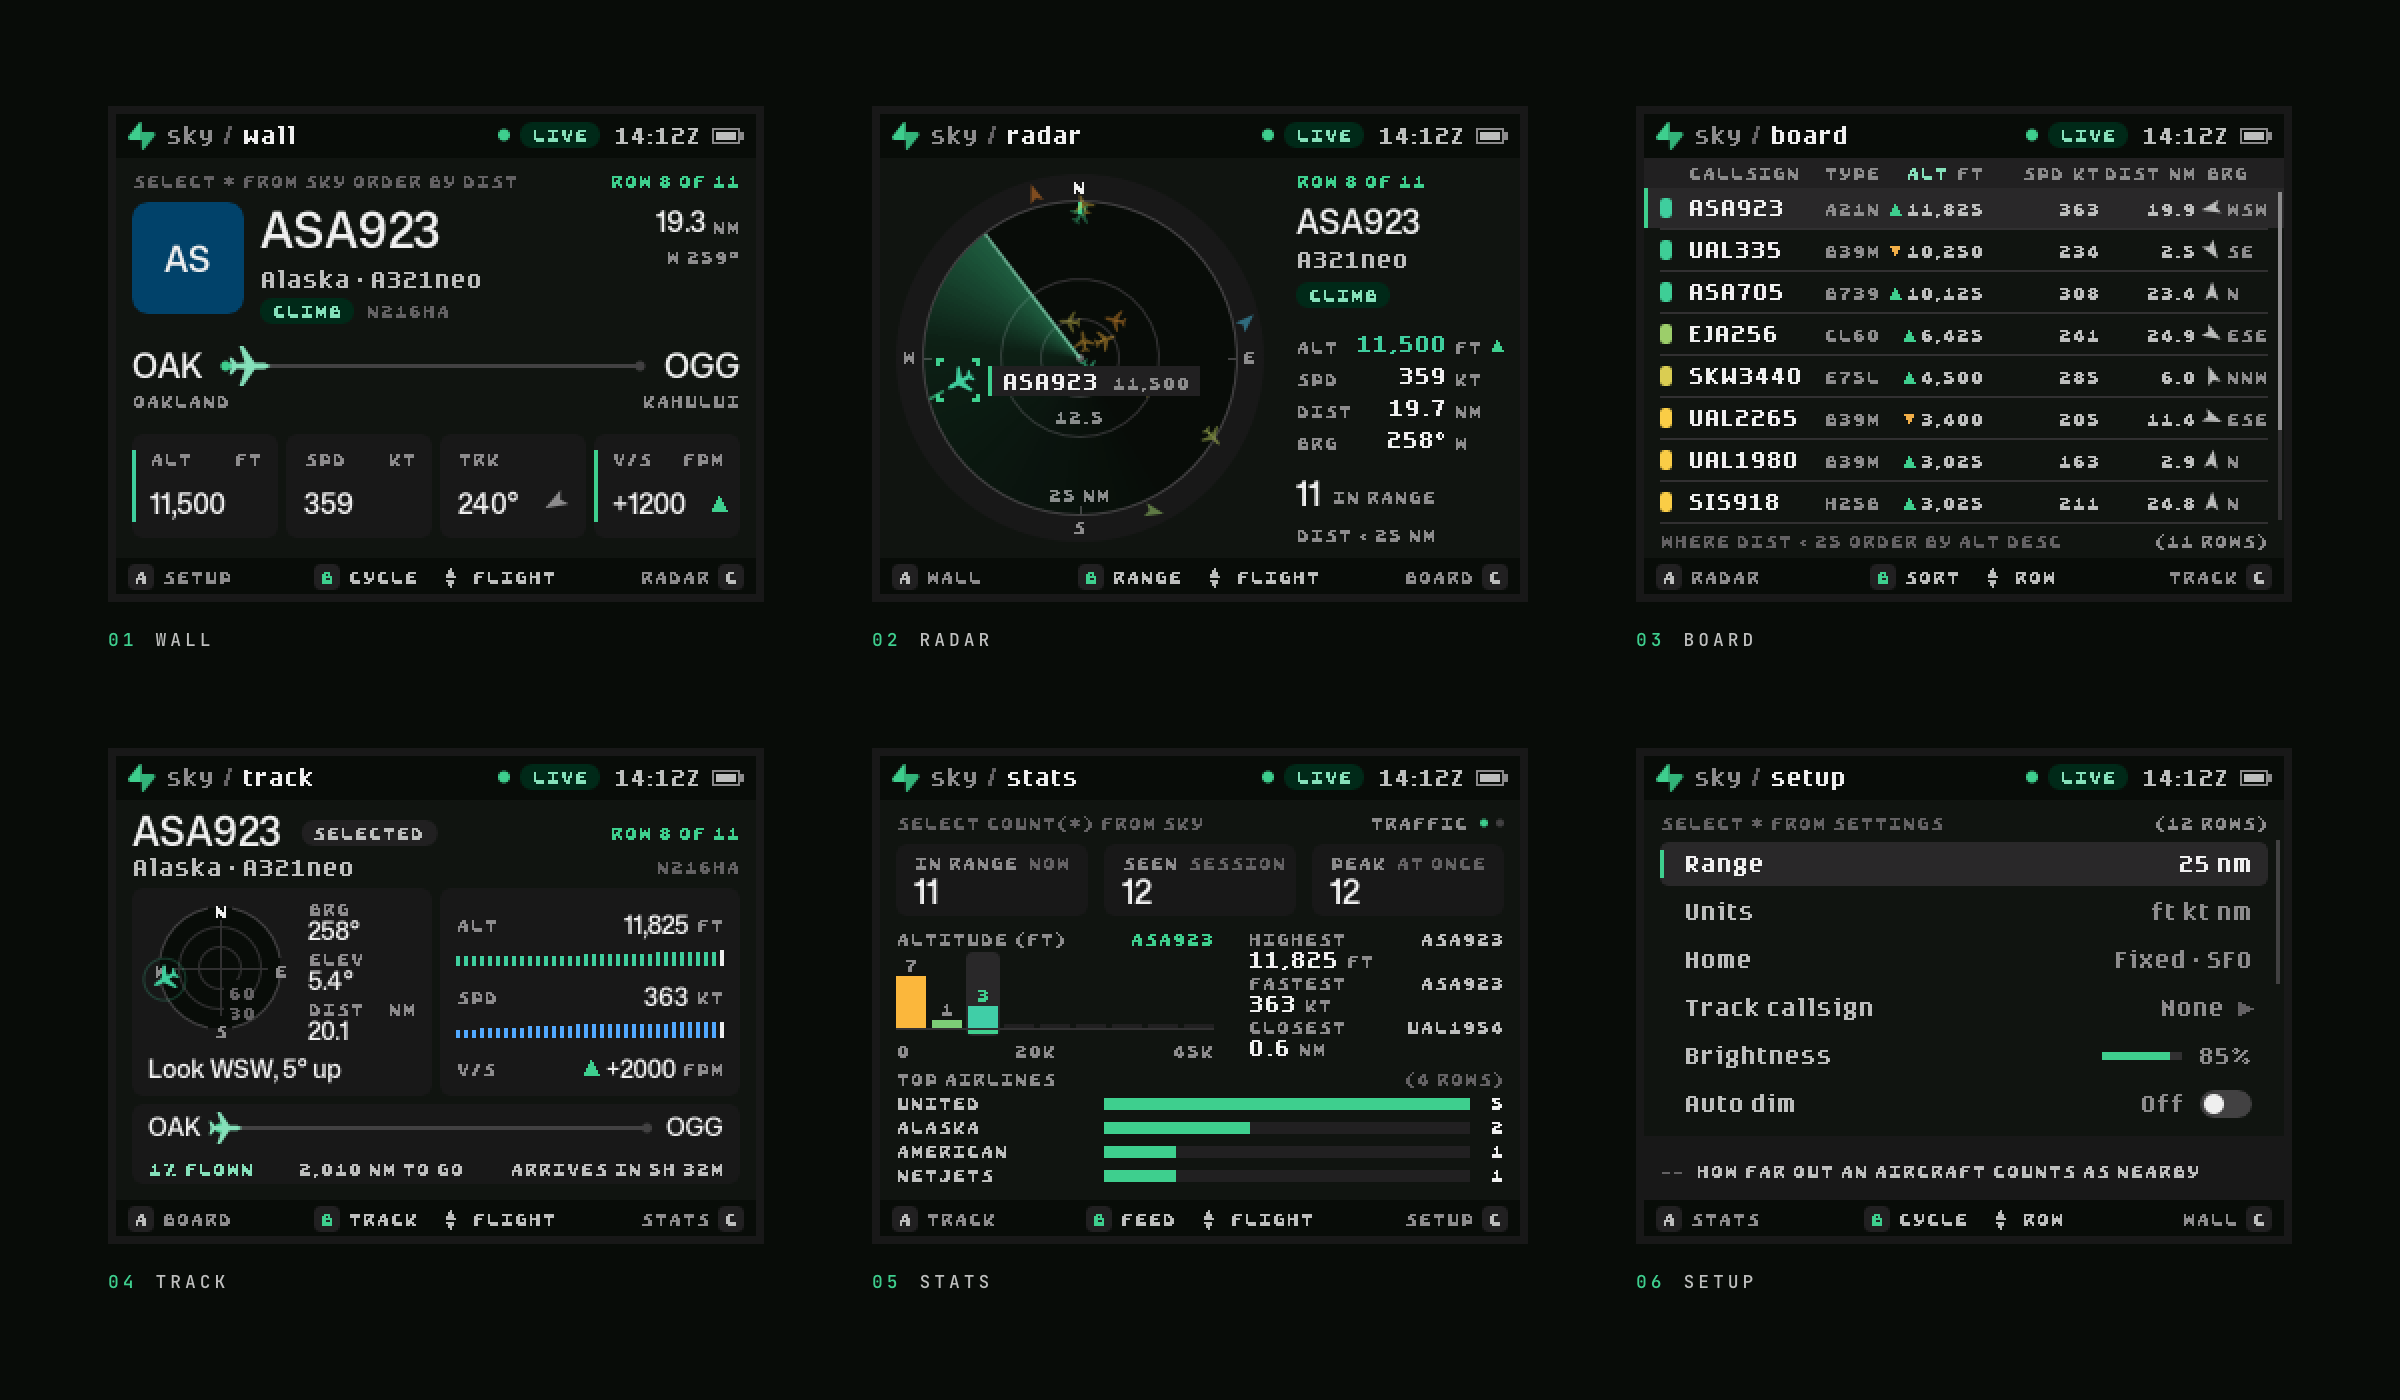
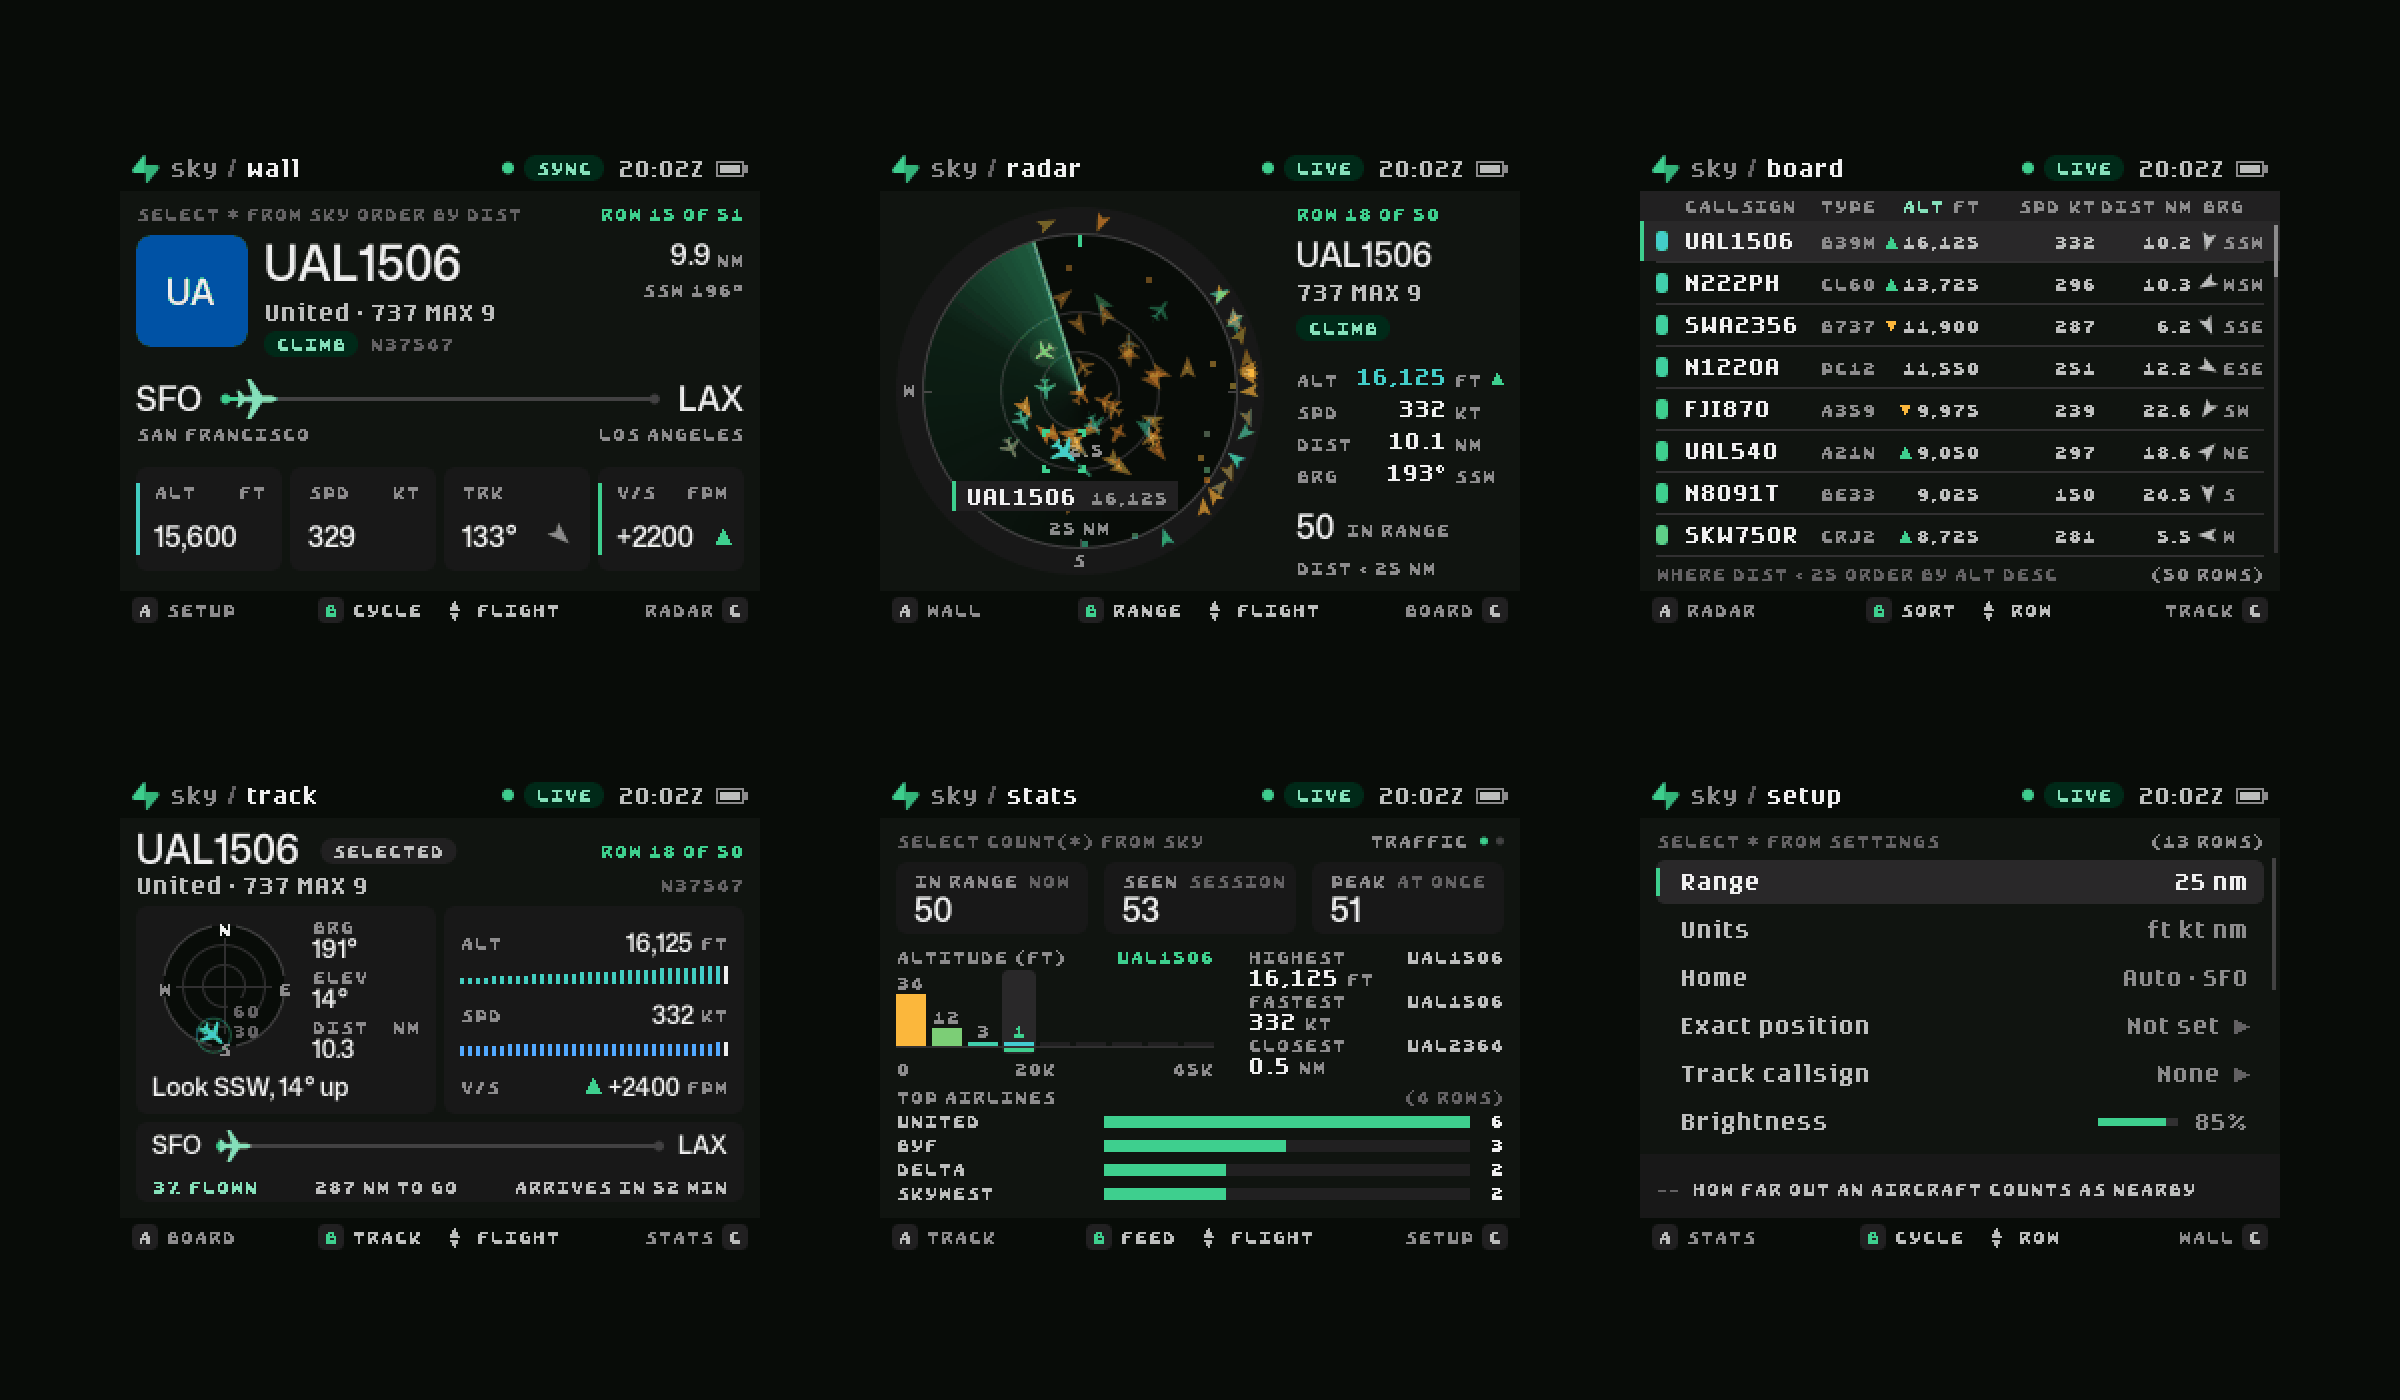
Add a screenshot of every screen

diff --git a/branding/index.html b/branding/index.html
@@ -538,7 +538,7 @@ footer .lbl { max-width: 70ch; line-height: 1.9; }
     </div>
 
     <div class="screens">
-      <figure><img src="screens/wall.png" width="1280" height="960" alt="Select Sky Wall view: callsign ASA923 with route, altitude, speed, track and vertical speed"><figcaption class="cap"><span class="lbl t2">01 · Wall</span><span class="lbl">screens/wall.png · 1280 × 960</span></figcaption></figure>
+      <figure><img src="screens/wall.png" width="1280" height="960" alt="Select Sky Wall view: callsign UAL1506 with route, altitude, speed, track and vertical speed"><figcaption class="cap"><span class="lbl t2">01 · Wall</span><span class="lbl">screens/wall.png · 1280 × 960</span></figcaption></figure>
       <figure><img src="screens/radar.png" width="1280" height="960" alt="Select Sky Radar view: a sweep over aircraft with the selected flight's details"><figcaption class="cap"><span class="lbl t2">02 · Radar</span><span class="lbl">screens/radar.png · 1280 × 960</span></figcaption></figure>
       <figure><img src="screens/board.png" width="1280" height="960" alt="Select Sky Board view: a table of aircraft with callsign, type, altitude, speed, distance and bearing"><figcaption class="cap"><span class="lbl t2">03 · Board</span><span class="lbl">screens/board.png · 1280 × 960</span></figcaption></figure>
       <figure><img src="screens/track.png" width="1280" height="960" alt="Select Sky Track view: a sky dome with bearing and elevation, altitude and speed history, and route progress"><figcaption class="cap"><span class="lbl t2">04 · Track</span><span class="lbl">screens/track.png · 1280 × 960</span></figcaption></figure>
@@ -625,7 +625,7 @@ footer .lbl { max-width: 70ch; line-height: 1.9; }
       <div>
         <span class="lbl g">Embeds</span>
         <p style="margin-top:12px">radar-loop-small.gif is the same loop at 320 × 240 for narrow embeds. Two of the 36 radar frames were rebuilt from the app's own sweep model to close the loop.</p>
-        <p>The loop shows flight SKW3440 at 14:16Z. The stills show ASA923 at 14:12Z. They come from different capture moments.</p>
+        <p>The loop shows flight SKW3440 at 14:16Z. The stills show UAL1506 at 20:02Z. They come from different capture moments.</p>
       </div>
     </div>
   </section>

diff --git a/branding/README.md b/branding/README.md
@@ -221,7 +221,7 @@ Two kinds of image carry the brand: screens and badge renders. Both come from th
 - `badge/front-wall.png` is the simulator's flat 2D view, scaled so its screen lands on an exact 3x. The screen pixels are the Wall capture at 3x.
 - The social cards carry "simulator render" in their fine print. Keep that wording when you adapt a card.
 
-Known mismatch: the stills show flight ASA923 at 14:12Z, and the hero renders and the radar loop show SKW3440 at 14:16Z. They come from different capture moments.
+Known mismatch: the stills show flight UAL1506 at 20:02Z, and the hero renders and the radar loop show SKW3440 at 14:16Z. They come from different capture moments.
 
 ## Motion
 
@@ -393,15 +393,19 @@ Paths are relative to this folder. Sizes are pixels (viewBox for SVG) and file w
 | `logo/lockup-tagline-light.png` | 960 × 368 · 22 KB | Lockup with tagline for light pages (2x) |
 | `logo/lockup-tagline-light.svg` | viewBox 856.48 × 328.32 · 1 KB | Wordmark with tagline, for light. Live text |
 | `logo/logo-sheet.png` | 2000 × 1200 · 228 KB | Logo system overview: sizes, clear space, do not |
-| `screens/alert.png` | 1280 × 960 · 16 KB | Squawk alert capture; caption it as the alert screen |
-| `screens/all-views.png` | 2400 × 1400 · 102 KB | 3 × 2 grid of the six views |
+| `screens/about.png` | 1280 × 960 · 10 KB | About page capture |
+| `screens/alert.png` | 1280 × 960 · 9 KB | Squawk alert capture; caption it as the alert screen |
+| `screens/all-views.png` | 2400 × 1400 · 55 KB | 3 × 2 grid of the six views |
 | `screens/board.png` | 1280 × 960 · 10 KB | Board view capture |
-| `screens/radar.png` | 1280 × 960 · 32 KB | Radar view capture |
-| `screens/setup.png` | 1280 × 960 · 7 KB | Setup view capture |
-| `screens/splash.png` | 1280 × 960 · 9 KB | Boot splash capture; shows the in-app Supabase bolt |
+| `screens/callsign.png` | 1280 × 960 · 8 KB | Callsign editor capture |
+| `screens/locate.png` | 1280 × 960 · 10 KB | Scan-to-locate capture; the QR code holds a placeholder relay |
+| `screens/position.png` | 1280 × 960 · 12 KB | Position editor capture |
+| `screens/radar.png` | 1280 × 960 · 21 KB | Radar view capture |
+| `screens/setup.png` | 1280 × 960 · 6 KB | Setup view capture |
+| `screens/splash.png` | 1280 × 960 · 7 KB | Boot splash capture; shows the in-app Supabase bolt |
 | `screens/stats.png` | 1280 × 960 · 9 KB | Stats view capture |
-| `screens/track.png` | 1280 × 960 · 28 KB | Track view capture |
-| `screens/wall.png` | 1280 × 960 · 23 KB | Wall view capture |
+| `screens/track.png` | 1280 × 960 · 15 KB | Track view capture |
+| `screens/wall.png` | 1280 × 960 · 13 KB | Wall view capture |
 | `badge/device-board.png` | 1333 × 971 · 328 KB | Tight device crop, Board view |
 | `badge/device-radar.png` | 1333 × 971 · 347 KB | Tight device crop, Radar view |
 | `badge/device-setup.png` | 1333 × 971 · 288 KB | Tight device crop, Setup view |

diff --git a/README.md b/README.md
@@ -31,6 +31,34 @@ Unofficial. Not for navigation.
 When an aircraft sends an emergency transponder code (7500, 7600 or 7700), an
 alert fills the screen and the rear lights flash until you acknowledge it.
 
+### Every screen
+
+<table>
+<tr>
+  <td align="center"><img src="branding/screens/wall.png" width="260" alt="Wall view: flight UAL1506, San Francisco to Los Angeles, with altitude, speed, track and vertical speed"><br><sub>Wall</sub></td>
+  <td align="center"><img src="branding/screens/radar.png" width="260" alt="Radar view: a sweep over aircraft colored by altitude, with the selected flight's details"><br><sub>Radar</sub></td>
+  <td align="center"><img src="branding/screens/board.png" width="260" alt="Board view: a table of aircraft sorted by altitude"><br><sub>Board</sub></td>
+</tr>
+<tr>
+  <td align="center"><img src="branding/screens/track.png" width="260" alt="Track view: where to look for one flight, its altitude and speed history, and its route"><br><sub>Track</sub></td>
+  <td align="center"><img src="branding/screens/stats.png" width="260" alt="Stats view: counts, an altitude histogram, records and top airlines"><br><sub>Stats</sub></td>
+  <td align="center"><img src="branding/screens/setup.png" width="260" alt="Setup view: a list of settings"><br><sub>Setup</sub></td>
+</tr>
+<tr>
+  <td align="center"><img src="branding/screens/locate.png" width="260" alt="Setup showing a QR code to scan with a phone"><br><sub>Exact position: scan with a phone</sub></td>
+  <td align="center"><img src="branding/screens/position.png" width="260" alt="Position editor: latitude and longitude, one digit per slot"><br><sub>Exact position: type it</sub></td>
+  <td align="center"><img src="branding/screens/callsign.png" width="260" alt="Callsign editor: one character per slot"><br><sub>Track callsign</sub></td>
+</tr>
+<tr>
+  <td align="center"><img src="branding/screens/alert.png" width="260" alt="Squawk alert: code 7700, general emergency, with the aircraft's distance and altitude"><br><sub>Squawk alert</sub></td>
+  <td align="center"><img src="branding/screens/about.png" width="260" alt="About page: license, status and data sources"><br><sub>About</sub></td>
+  <td align="center"><img src="branding/screens/splash.png" width="260" alt="Startup screen: the Supabase bolt above the query select * from sky;"><br><sub>Startup</sub></td>
+</tr>
+</table>
+
+Captures from the badge.select simulator. Each view shows live traffic near San
+Francisco. The alert is the app's test alert, on demo traffic.
+
 <p align="center">
   <img src="branding/badge/device-radar.png" width="32%" alt="Radar view on the badge">
   <img src="branding/badge/device-board.png" width="32%" alt="Board view on the badge">
